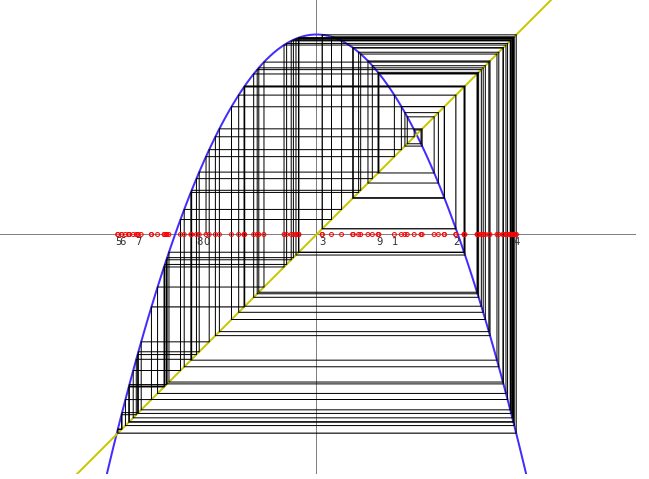
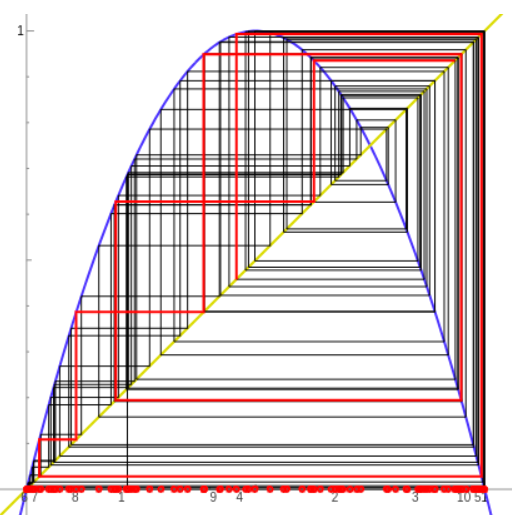
riscritto esercizio su ricorrenza per ricondurlo alla mappa logistica

diff --git a/chapters/AnalisiUno-08-ricorrenza.tex b/chapters/AnalisiUno-08-ricorrenza.tex
@@ -679,21 +679,26 @@ successione ha limite: $a_n \to 1$.
 \end{proof}
 
 \begin{exercise}\label{ex_7}
+  %% a_n <- (a_n + 2)/4
   Si consideri la successione definita per ricorrenza
   \[
   \begin{cases}
     a_0 = \alpha\\
-    a_{n+1} = 2- a_n^2.
+    a_{n+1} = 4 a_n (1-a_n) % 2- a_n^2.
   \end{cases}
   \]
-  Determinare il limite della successione nei casi: $\alpha=-7$, $\alpha=4$ e $\alpha=1/42$.
+  Determinare il limite della successione nei casi: 
+  $\alpha=-1$, 
+  $\alpha=2$ e 
+  $\alpha=1/42$.
 \end{exercise}
 
+
 \newsavebox{\qrexsette}\sbox{\qrexsette}{%
-\myqrshortdoclink{ex7}{Diagramma a ragnatela relativo all'esercizio \getrefnumber{ex_7}}}
+\myqrshortdoclink{ex7b}{Diagramma a ragnatela relativo all'esercizio \getrefnumber{ex_7}}}
 \begin{figure}
    \begin{center}
-    \includegraphics[width=\textwidth]{fig_ex_7.png}
+    \includegraphics[width=0.5\textwidth]{fig_ex_7.png}
   \end{center}
   \caption{Diagramma a ragnatela relativo
     all'esercizio~\ref{ex_7}.
@@ -703,24 +708,25 @@ successione ha limite: $a_n \to 1$.
 \end{figure}
 
 \begin{proof}[Soluzione]
-  Abbiamo $a_{n+1} = f(a_n)$ con $f(x) = 2-x^2$. Determiniamo i punti
+  Abbiamo $a_{n+1} = f(a_n)$ con $f(x) = 4x(1-x)$. 
+  Determiniamo i punti
   fissi di $f$:
   \[
-  2-x^2 = x, \qquad x^2 + x - 2 = 0
+  4x(1-x)= x, \qquad 4 x^2 - 3x = 0
   \]
-  che ha come soluzioni $x_{1,2} = \frac{-1\pm\sqrt{1+8}}{2}$ cioé
-  $x_1 = -2$, $x_2 = 1$. Tenendo conto anche dei segni si può
+  che ha come soluzioni $x_1=0$ e $x_2=\frac 3 4$. 
+  Tenendo conto anche dei segni si può
   osservare che all'interno delle due soluzioni si ha $f(x)>x$ mentre
   all'esterno si ha $f(x)<x$.
 
   Osserviamo inoltre che $f(x)$ è crescente per
-  $x\le 0$ e decrescente per $x\ge 0$.
+  $x\le \frac 1 2$ e decrescente per $x\ge \frac 1 2$.
 
-  Caso $\alpha=-7$. In questo caso consideriamo l'intervallo
-  $A=(-\infty, -2)$. Visto che $f$ è crescente su questo intervallo,
-  e visto che $-2$ è un punto fisso si ha:
+  Caso $\alpha=-1$. In questo caso consideriamo l'intervallo
+  $A=(-\infty, 0)$. Visto che $f$ è crescente su questo intervallo,
+  e visto che $0$ è un punto fisso si ha:
   \[
-  x < -2 \Rightarrow f(x) < f(-2) \Rightarrow f(x) < -2
+  x < 0 \Rightarrow f(x) < f(0) \Rightarrow f(x) < 0
   \]
   che significa che $A$ è un intervallo invariante.
 
@@ -728,76 +734,78 @@ successione ha limite: $a_n \to 1$.
   di conseguenza ammette limite $a_n\to \ell$. Il limite può essere
   finito oppure $-\infty$. Ma se fosse finito allora avremmo
   \[
-  a_{n+1} = 2 - a_n^2 \to 2 - \ell^2
+  a_{n+1} = 4 a_n (1-a_n) \to 4 \ell (1-\ell)
   \]
-  e siccome $a_{n+1}\to \ell$ avremmo $\ell = 2 - \ell^2$ cioè $\ell$
-  è un punto fisso di $f$. Ma visto che $\ell \le a_1 = \alpha < x_1 <
-  x_2$ otteniamo un assurdo.
+  e siccome $a_{n+1}\to \ell$ avremmo che $\ell$
+  è un punto fisso di $f$. 
+  Ma visto che $\ell \le a_0 = \alpha < 0$
+  otteniamo un assurdo.
 
   Dunque l'unica possibilità è che $a_n \to -\infty$. Questo
-  stesso ragionamento vale per ogni $\alpha<-2$.
+  stesso ragionamento vale per ogni $\alpha<0$.
 
-  Caso $\alpha=4$. In questo caso si ha:
+  Caso $\alpha=2$. In questo caso si ha:
   \begin{align*}
-    a_0 &= \alpha = 4\\
-    a_1 &= f(a_0) = 2 - 4^2 = -14.
+    a_0 &= \alpha = 2\\
+    a_1 &= f(a_0) = 4\cdot 2\cot (1-2) = -8.
   \end{align*}
   quindi $a_1 \in A$ (l'intervallo invariante del punto precedente) e
   dall'indice $2$ in poi ci si riconduce quindi ai risultati
   precedenti. Dunque anche in questo caso $a_n \to -\infty$.
 
   Caso $\alpha = \frac 1{42}$. Questo caso è decisamente più complesso dei
-  precedenti. Prendiamo l'insieme $A_2 = [-2, 2]$: vogliamo dimostrare
-  che è un insieme invariante. Nell'intervallo $[-2,0]$ la funzione è
-  crescente e quindi ha minimo in $-2$ dove vale $f(-2)=-2$ ed ha
-  massimo in $0$ dove assume il valore $f(0) = 2$. Nell'intervallo
-  $[0,2]$ la funzione è decrescente e, di nuovo, ha massimo $f(0)=2$ e
-  minimo $f(2)=-2$. Dunque per ogni $x\in [-2,2]$ si ha $f(x) \in
-  [-2,2]$ cioè, come volevamo dimostrare, $A_2$ è invariante.
+  precedenti. Prendiamo l'insieme $A_2 = [0, 1]$: vogliamo dimostrare
+  che è un insieme invariante. Nell'intervallo $\closeinterval{0}{\frac 1 2}$ la funzione è
+  crescente e quindi ha minimo in $0$ dove vale $f(0)=0$ ed ha
+  massimo in $\frac 1 2$ dove assume il valore $f(1/2) = 1$. Nell'intervallo
+  $\closeinterval{\frac 1 2}{1}$ la funzione è decrescente e, di nuovo, ha massimo $f(1/2)=1$ e
+  minimo $f(1)=0$. Dunque per ogni $x\in [0,1]$ si ha $f(x) \in
+  [0,1]$ cioè, come volevamo dimostrare, $A_2$ è invariante.
 
   Dunque visto che $a_0 = \alpha \in A_2$ scopriamo che per ogni $n$
-  si ha $a_n \in [-2,2]$. Supponiamo ora che la successione abbia
+  si ha $a_n \in [0,1]$. Supponiamo ora che la successione abbia
   limite: $a_n \to \ell$. In tal caso, passando al limite
   nell'equazione $a_{n+1} = f(a_n)$ otteniamo, come al solito, che il
-  limite dovrebbe essere un punto fisso di $f$: o $\ell=-2$ oppure
-  $\ell=1$. Cercheremo ora di dimostrare che questo è assurdo. Ci sono
+  limite dovrebbe essere un punto fisso di $f$: o $\ell=0$ oppure
+  $\ell=\frac 3 4$. Cercheremo ora di dimostrare che questo è assurdo. Ci sono
   due possibilità che dobbiamo escludere. La prima è che la
   successione tenda al punto fisso $\ell$ senza mai uguagliarlo. La
   seconda è che per un certo $n_0$ si abbia $a_n = \ell$ per $n=n_0$ e
   quindi per ogni $n\ge n_0$.
 
-  Supponiamo di essere nel primo caso e supponiamo che $\ell = -2$. In
+  Supponiamo di essere nel primo caso e supponiamo che $\ell = 0$. In
   tal caso, per il teorema della permanenza del segno la successione
-  deve, da un certo indice in poi, stare nell'intervallo $[-2, 0]$. Ma
+  deve, da un certo indice in poi, stare nell'intervallo $\closeinterval{0}{\frac 1 2}$. Ma
   in tale intervallo si ha $f(x)>x$ e quindi la successione sarebbe,
-  da un certo indice in poi, crescente. Ma visto che $a_n \ge -2$ per
+  da un certo indice in poi, crescente. Ma visto che $a_n \ge 0$ per
   ogni $n$, non è possibile che la successione converga, crescendo, a
-  $-2$.
+  $0$.
 
   Supponiamo allora di essere nel primo caso (la successione è sempre
-  diversa dai due punti fissi) e supponiamo che $\ell = 1$. In
+  diversa dai due punti fissi) e supponiamo che $\ell = \frac 3 4$. In
   questo caso da un certo indice in poi la successione deve stare
-  nell'intervallo $[0,2]$ (altrimenti non potrebbe convergere a
-  $1$. In tale intervallo la funzione $f$ è decrescente e quindi
+  nell'intervallo $\closeinterval{\frac 1 2}{1}$ (altrimenti non potrebbe convergere a
+  $\frac 3 4$). In tale intervallo la funzione $f$ è decrescente e quindi
   le sottosuccessioni dei termini pari e dei termini dispari sono
-  entrambe monotone. Si potrebbe cercare di studiare le successioni dei
+  entrambe monotòne. Si potrebbe cercare di studiare le successioni dei
   termini pari $a_{2n}$ e dispari $a_{2n+1}$ che soddisfano una relazione di ricorrenza
   con la funzione $f\circ f$ al posto di $f$ e osservare che la successione
   che si trova a sinistra del punto fisso dovrebbe decrescere e quella che si trova a
   destra dovrebbe crescere (e questo sarebbe assurdo). Un metodo forse più
   rapido che non richiede lo studio della funzione composta è invece il seguente.
   L'idea è di osservare che $f$ tende ad aumentare le distanze quando ci si trova
-  nei paraggi del punto $1$. Se per assurdo $a_n\to 1$ allora definitivamente
-  si dovrà avere $\abs{a_n-1}< 1/2$. Ma allora si osserva che:
+  nei paraggi del punto $1$. Se per assurdo $a_n\to \frac 3 4$ allora definitivamente
+  si dovrà avere $\abs{a_n-\frac 3 4}< 1/8$. Ma allora si osserva che:
   \[
-    \abs{a_{n+1}-1}
-    = \abs{2-a_n^2-1}=\abs{1-a_n^1}
-    = \abs{1+a_n}\cdot \abs{1-a_n}
-    \ge \frac 3 2 \abs{a_n-1}
+    \abs{a_{n+1}-\frac 3 4}
+    = \abs{4a_n(1-a_n)-\frac 3 4}
+    = \abs{\frac 3 4 - 4a_n + 4a_n^2}
+    = \abs{a_n-\frac 3 4}\abs{4a_n -1}
+    \ge 4\abs{a_n-\frac 3 4}
   \]
-  in quanto se $\abs{a_n-1}<1/2$ allora (per la disuguaglianza triangolare inversa)
-  $\abs{1+a_n}\ge \frac 3 2$. Questo è assurdo perché significa che $\abs{a_n -1}\to +\infty$
-  (per il criterio del rapporto) quando invece dovrebbe essere $\abs{a_n-1}\to 0$.
+  in quanto se $\abs{a_n-\frac 3 4}<1/8$ allora (per la disuguaglianza triangolare inversa)
+  $\abs{4a_n-1}\ge 4$. Questo è assurdo perché significa che $\abs{a_n -\frac 3 4}\to +\infty$
+  (per il criterio del rapporto) quando invece dovrebbe essere $\abs{a_n-\frac 3 4}\to 0$.
 
   \textbf{Nota.} Vedremo nei prossimi teoremi che
   se la derivata di $f$ è in valore assoluto minore di
@@ -811,27 +819,29 @@ successione ha limite: $a_n \to 1$.
 
   Rimane da considerare la possibilità che la successione assuma da un
   certo punto in poi il valore esatto di un punto fisso. Supponiamo ad
-  esempio che per un certo $n$ si abbia $a_n=1$. Allora si deve avere
+  esempio che per un certo $n$ si abbia $a_n=\frac 3 4$. Allora si deve avere
   \[
-  1 = a_n = 2-(a_{n-1})^2
+  \frac 3 4 = a_n = 4\cdot a_{n-1} \cdot (1-a_{n-1})
   \]
-  da cui
+  da cui si ricava (tramite~\eqref{eq:secondo_grado})
   \[
-  a_{n-1} = \pm 1.
+  a_{n-1} = \frac 3 4 
+  \qquad\lor\qquad
+  a_{n-1} = \frac 1 4.
   \]
-  Se $a_n$ era il primo termine con valore $1$ dovrà necessariamente
-  essere $a_{n-1} = -1$. Ma allora
+  Se $a_n$ era il primo termine con valore $\frac 3 4$ dovrà necessariamente
+  essere $a_{n-1} = \frac 1 4$. Ma allora
   \[
-  -1 = a_{n-1} = 2-(a_{n-2})^2
+  \frac 1 4 = a_{n-1} = 4 a_{n-2}(1-a_{n-2})
   \]
-  da cui $a_{n-2} = \pm \sqrt 3$. Ma ora osserviamo che essendo $a_0=
+  da cui $a_{n-2} = \frac{2\pm\sqrt 3}{4}$. Ma ora osserviamo che essendo $a_0=
   \alpha = \frac 1 {42}$ un numero razionale, e osservando che $\QQ$ è un
   insieme invariante per $f$ (perché? verificare per induzione...)
-  sappiamo che ogni $a_k \in \QQ$ e quindi
-  avremmo $a_{n_2} = \sqrt 3 \in \QQ$: assurdo.
+  deduciamo che ogni $a_k \in \QQ$ e quindi
+  avremmo $a_{n-2} = \frac{2\pm\sqrt 3}{4} \in \QQ$: assurdo.
 
-  Stesso discorso si può fare se si avesse $a_n=-2$, in quanto si
-  avrebbe $a_{n-1} = 2$, $a_{n-2} = 0$ e quindi $a_{n-3}=\pm \sqrt 2$.
+  Stesso discorso si può fare se si avesse $a_n=0$, in quanto si
+  avrebbe $a_{n-1} = 1$, $a_{n-2} = \frac 1 2$ e quindi $a_{n-3}=\frac{2 \pm \sqrt 2}{4}$.
 
   Dunque la successione $a_n$ non ammette limite.
 \end{proof}
